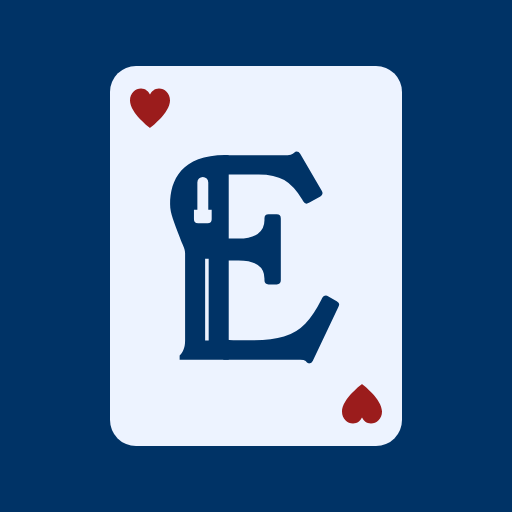
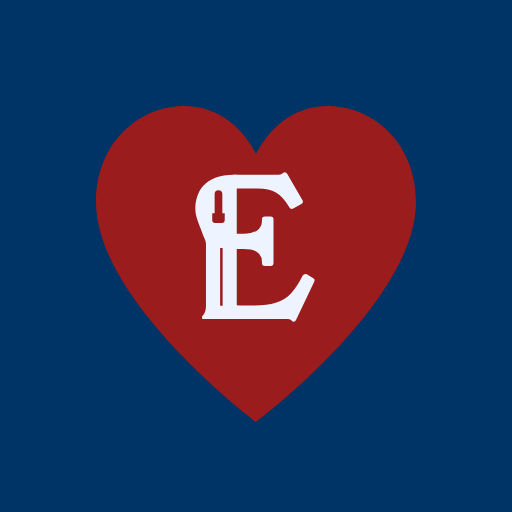
Poker Hub v1.3.7: the carmine heart is back on the blue tile
Ernest's choice once 1.3.6 kept the blue in iOS Dark icon mode. The
wiring stays as 1.3.6 made it (links in the page, PNGs beside it, no
query strings), so this also shows whether the drawing or the wiring
was what turned the old heart's background black.

Claude-Session: https://claude.ai/code/session_01KXqnyGJbYEB73Y75yW7M9b

diff --git a/index.html b/index.html
@@ -9,16 +9,16 @@
 <meta name="mobile-web-app-capable" content="yes">
 <meta name="apple-mobile-web-app-status-bar-style" content="black">
 <meta name="eds-version" content="2.0.0">
-<meta name="app-version" content="1.3.6">
+<meta name="app-version" content="1.3.7">
 <meta name="theme-color" content="#050a0e" media="(prefers-color-scheme: dark)">
 <meta name="theme-color" content="#edf3ff" media="(prefers-color-scheme: light)">
 <meta name="description" content="One store for the home game: buy-ins, hands, reads, settlement, ledger.">
 <!--
-  Poker Hub 1.3.6 · EDB design system 2.0.0
+  Poker Hub 1.3.7 · EDB design system 2.0.0
   Single file, zero network requests, works from file:// and from GitHub Pages
   Built 2026-11-18 · © Ernest Tung
 -->
[2 lines of base64/hex data omitted]
 <link rel="apple-touch-icon" href="./apple-touch-icon.png">
 <link rel="manifest" href="./manifest.webmanifest">
 <script>
@@ -11268,7 +11268,7 @@ window.MARK_PATHS = {
 (function () {
   'use strict';
 
-  var APP_VERSION = '1.3.6';
+  var APP_VERSION = '1.3.7';
   var EDS_VERSION = '2.0.0';
 
   var Settle = window.PHSettle, Layers = window.PHLayers, Ident = window.PHIdentity;

diff --git a/README.md b/README.md
@@ -1,4 +1,15 @@
-# Poker Hub — v1.3.6 · one icon, drawn like the Atlas
+# Poker Hub — v1.3.7 · the heart is back
+
+### What changed in v1.3.7 (18/11/2026)
+
+- **The home-screen icon is the carmine heart again**, scalpel-E in pale
+  ink, on the full-bleed Prussian tile — Ernest's choice once 1.3.6 showed
+  the blue holding. Wiring is unchanged from 1.3.6 (links in the page, PNGs
+  beside it, no query strings). 1.3.6 changed both the drawing and the
+  wiring, so this also tells which kept the blue: if the background goes
+  black again, the drawing was the cause and the playing card (1.3.6, in
+  git history) is the fallback.
+- Remove the icon and add it again to pick it up — back up first.
 
 ### What changed in v1.3.6 (18/11/2026)
 
@@ -395,7 +406,7 @@ downloads them as before.
 **Icon B1.** The carmine heart Ernest chose in August, with the scalpel-E
 now in ink `#edf3ff` instead of knocked out in Prussian — the one change
 that rescues it at 16 px (merge spec §15). Regenerated at every size.
-(Replaced by the playing card in 1.3.6.)
+(Replaced by the playing card in 1.3.6; back, on the new wiring, in 1.3.7.)
 
 **Two latent test bugs fixed.** `test_import.mjs` §9 and `test_browser.mjs`
 only passed in US Eastern time: the tracker fixture's first buy-in was
@@ -1195,9 +1206,9 @@ index.html              the app — build output, do not edit
 sw.js                   offline start, beside it
 manifest.webmanifest    beside it, relative paths
 apple-touch-icon.png    the home-screen icon (180), and icon-192/-512,
-icon-*.png              icon-maskable-512 for the manifest: a pale playing
-                        card, scalpel-E and carmine hearts, on full-bleed
-                        Prussian — rendered by make-icons.mjs
+icon-*.png              icon-maskable-512 for the manifest: carmine heart,
+                        pale scalpel-E, on full-bleed Prussian — rendered
+                        by make-icons.mjs
 src/icon.svg            the one drawing every icon comes from
 build.mjs               inlines everything, then fails on any outbound URL
 src/
